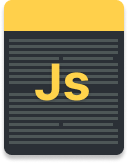
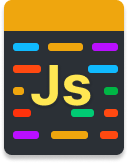
some commit

diff --git a/public/js/apps/folder.js b/public/js/apps/folder.js
@@ -334,17 +334,17 @@ folder.setimg = (name, type) => {
     if (name.indexOf('.') !== -1) {
 
         if (name.split('.')[name.split('.').length - 1] === 'zip') return `${path}/zip.png`
-        else if (name.split('.')[name.split('.').length - 1] === 'go') return `${path}/golang.png`
-        else if (name.split('.')[name.split('.').length - 1] === 'js') return `${path}/js_colors.png`
+        else if (name.split('.')[name.split('.').length - 1] === 'go') return `${path}/go.png`
+        else if (name.split('.')[name.split('.').length - 1] === 'js') return `${path}/js.png`
         else if (name.split('.')[name.split('.').length - 1] === 'html') return `${path}/html.png`
         else if (name.split('.')[name.split('.').length - 1] === 'css') return `${path}/css.png`
-        else if (name.split('.')[name.split('.').length - 1] === 'py') return `${path}/godot_python.png`
+        else if (name.split('.')[name.split('.').length - 1] === 'py') return `${path}/py.png`
         else if (name.split('.')[name.split('.').length - 1] === 'md') return `${path}/md.png`
         else if (name.split('.')[name.split('.').length - 1] === 'txt') return `${path}/file.png`
         else if (name.split('.')[name.split('.').length - 1] === 'json') return `${path}/json.png`
         else if (name.split('.')[name.split('.').length - 1] === 'png') return `${path}/png.png`
         else if (name.split('.')[name.split('.').length - 1] === 'jpg' || name.split('.')[name.split('.').length - 1] === 'jpeg') return `${path}/jpg.png`
-        else if (name.split('.')[name.split('.').length - 1] === 'csv') return `${path}/CSV.png`
+        else if (name.split('.')[name.split('.').length - 1] === 'csv') return `${path}/csv.png`
         else if (name.split('.')[name.split('.').length - 1] === 'mov') return `${path}/mov.png`
         else if (name.split('.')[name.split('.').length - 1] === 'mp3') return `${path}/mp3.png`
         else if (name.split('.')[name.split('.').length - 1] === 'mp4') return `${path}/mp4.png`
